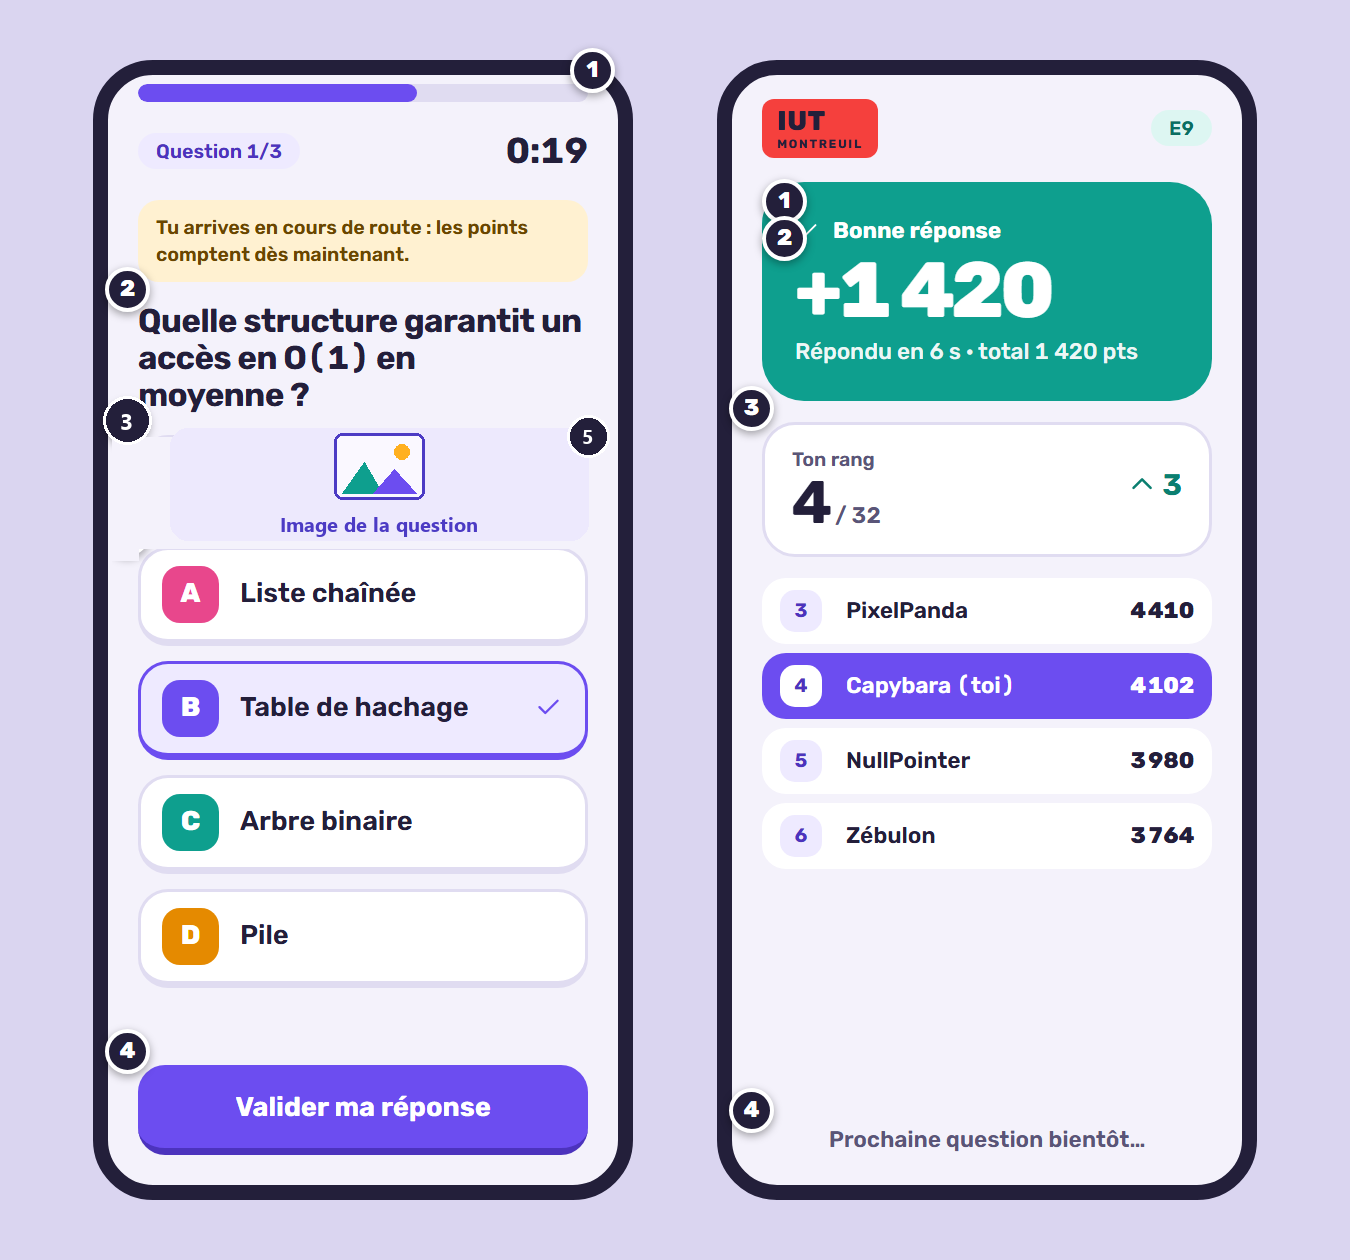
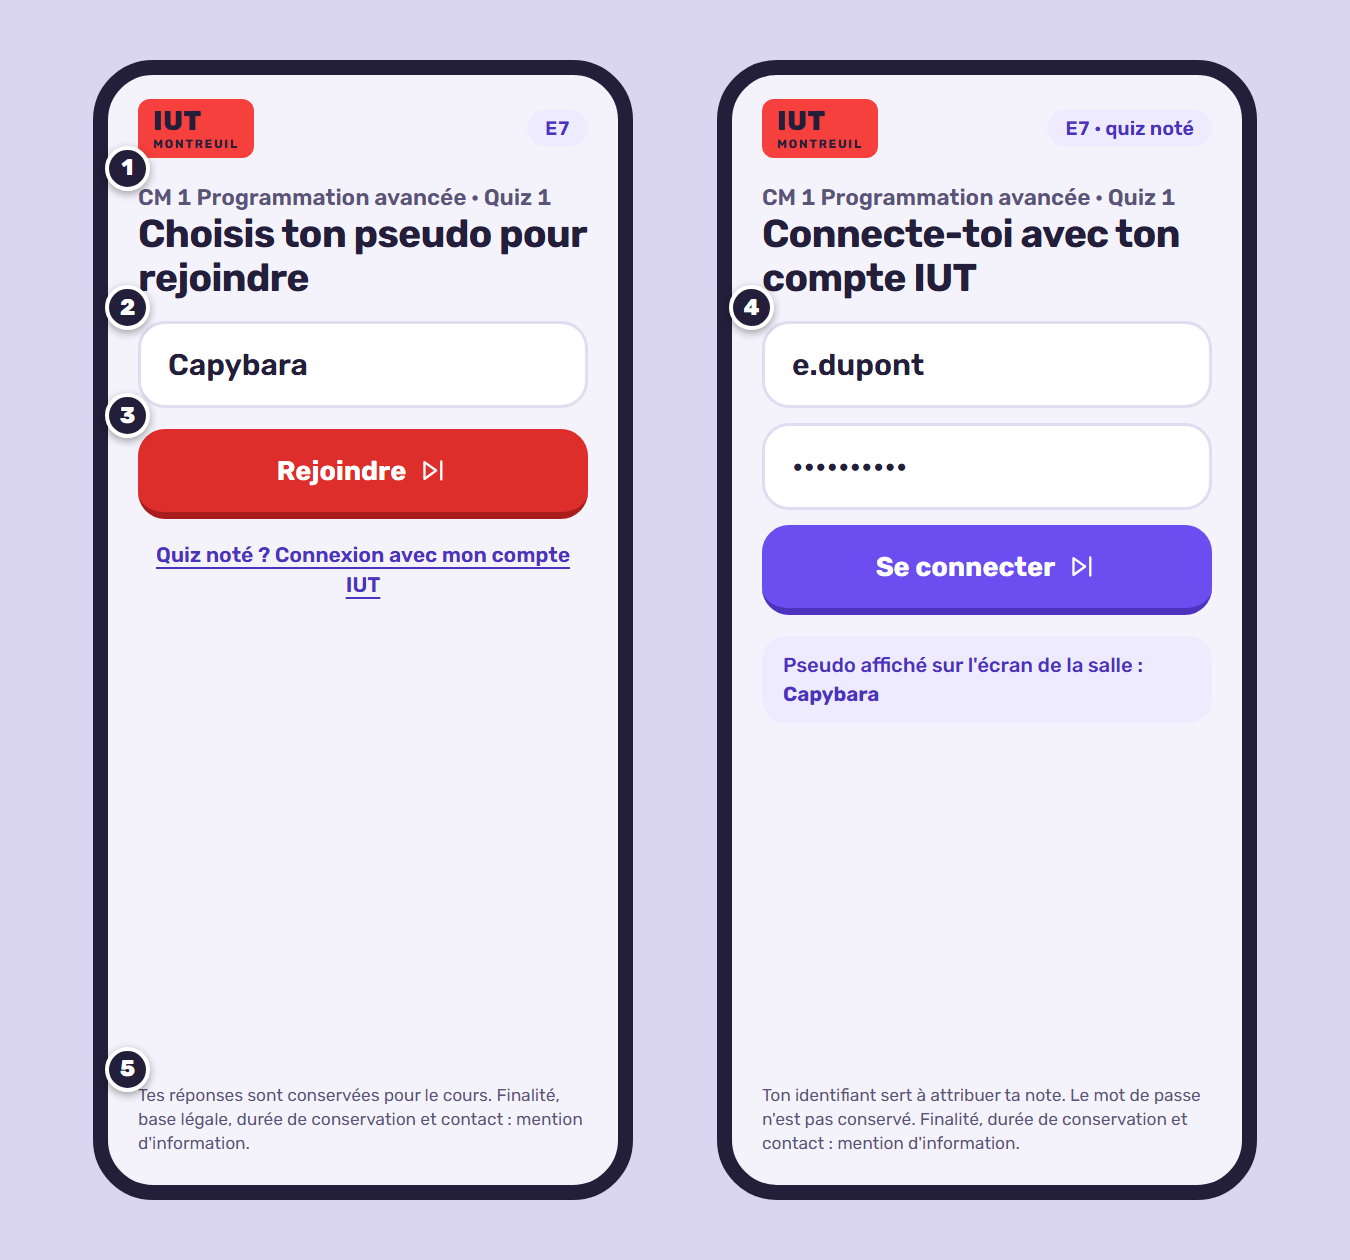
docs(maquettes): remettre E7 et E8-E9 à l'endroit (UC8 B0)

diff --git a/docs/plans/UC8-rejoindre-quiz.md b/docs/plans/UC8-rejoindre-quiz.md
@@ -30,8 +30,8 @@ de connectés de E5 (front enseignant), écrans E8 et E9 (UC9, déjà faits), li
   - `DataIntegrityViolationException` donne `409` « Cette opération entre en conflit avec des données existantes. ».
   - Schéma : `code_acces VARCHAR(32)`, `pseudonyme VARCHAR(20)` (longueur comptée en caractères par PostgreSQL),
     `UNIQUE (id_session, pseudonyme)`.
-- Maquettes : les fichiers sont **inversés**. `docs/maquettes/E7.png` montre E8 et E9 ; `docs/maquettes/E8-E9.png`
-  montre E7 (pseudonyme à gauche, quiz noté à droite).
+- Maquettes : les fichiers étaient **inversés** (renommés en B0). `docs/maquettes/E7.png` montre maintenant E7
+  (pseudonyme à gauche, quiz noté à droite) et `docs/maquettes/E8-E9.png` montre E8 et E9.
 
 ## 2. Décisions prises
 
@@ -160,8 +160,8 @@ les états ; les titres E7-1 (« titreCours • titreQuiz ») le sont dans FORMU
 - [x] **B0 Préparation** : vérifier la branche `feature/uc8-front` ; `npm ci` ; `npm run lint`, `npm run build` et
   `npm test` passent avant toute modification ; enregistrer ce plan. Remettre les noms des maquettes à l'endroit
   (`E7.png` ↔ `E8-E9.png`, à confirmer). Le PDF de l'UC9 supprimé et le dossier `.claude/` non suivi restent tels
-  quels : décision de l'auteur. Fait le 24/11/2026 : 293 tests, lint et build passent. Inversion des maquettes
-  vérifiée, mais renommage **pas encore fait** (en attente de confirmation, question U6).
+  quels : décision de l'auteur. Fait le 24/11/2026 : 293 tests, lint et build passent. Maquettes
+  renommées (inversion vérifiée, confirmée le 24/11/2026).
 - [ ] **B1 Domaine** : `pseudonyme.ts` (D8), `erreursRejoindre.ts` (§4 et repli D6), `ecranRejoindre.ts` (types et
   reducer du §5). Rien d'autre que du TypeScript pur.
 - [ ] **B2 API et stockage** : `suggestion` dans `shared/http` ; `rejoindreApi.ts` (§3, conversion vérifiée, résultat
@@ -217,7 +217,7 @@ les états ; les titres E7-1 (« titreCours • titreQuiz ») le sont dans FORMU
 | U3 | Texte définitif de la mention E7-5, à valider par le délégué à la protection des données | Texte de la maquette (D15) |
 | U4 | Titre « Choisis ton pseudo pour rejoindre » (absent de la spec) | Gardé, provisoire (D4) |
 | U5 | Que faire si le stockage du jeton est indisponible (stockage désactivé) ? | Message du `500` |
-| U6 | Faut-il renommer les maquettes inversées (`E7.png` ↔ `E8-E9.png`) ? | Oui, en B0 |
+| U6 | Faut-il renommer les maquettes inversées (`E7.png` ↔ `E8-E9.png`) ? | Oui, fait en B0 (24/11/2026) |
 
 ## 9. Critères d'acceptation
 
